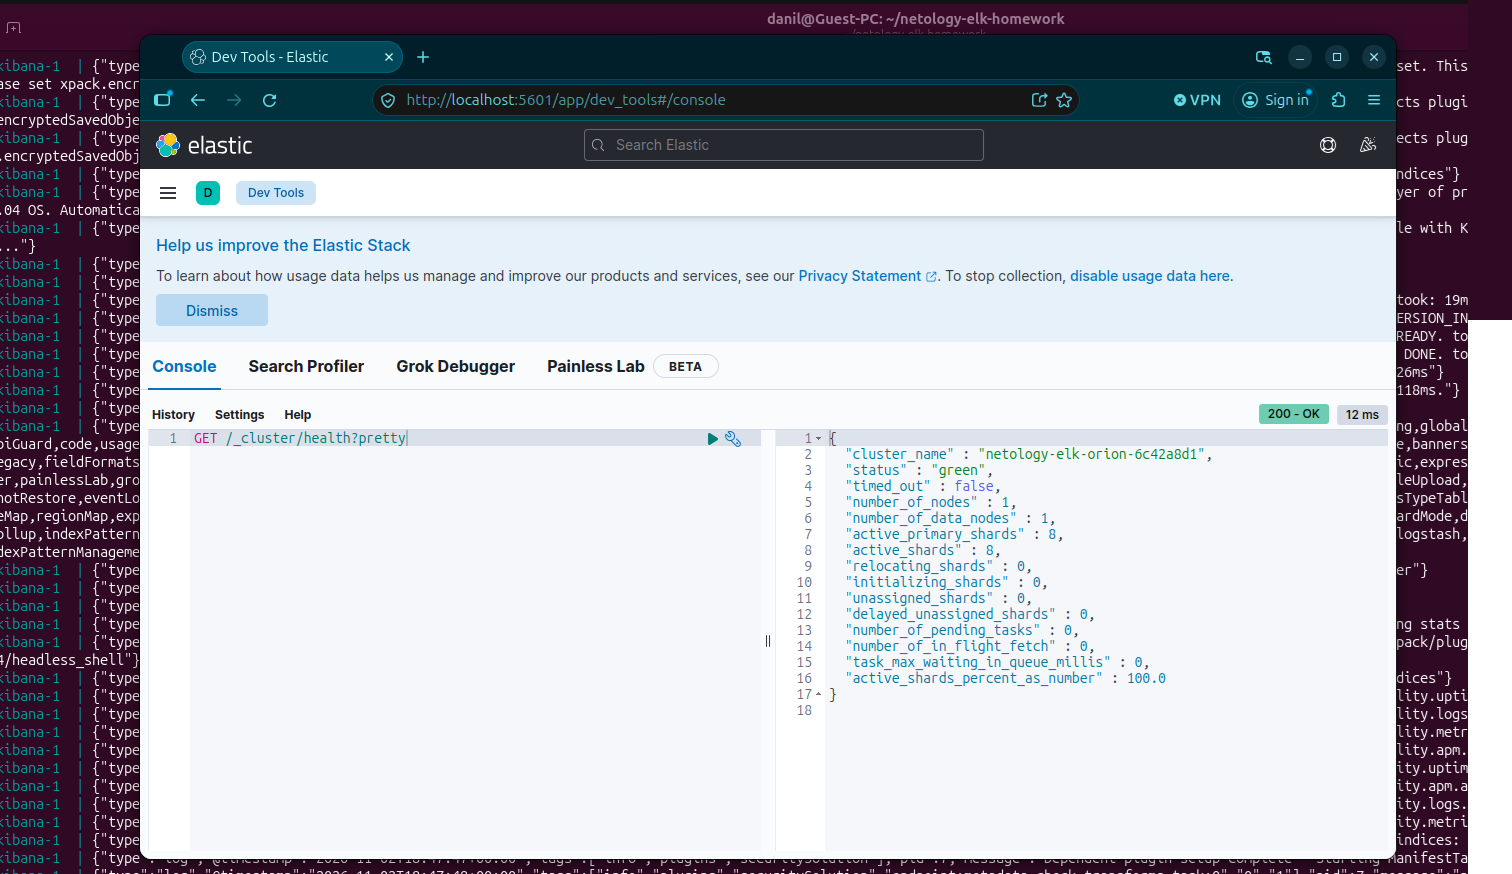
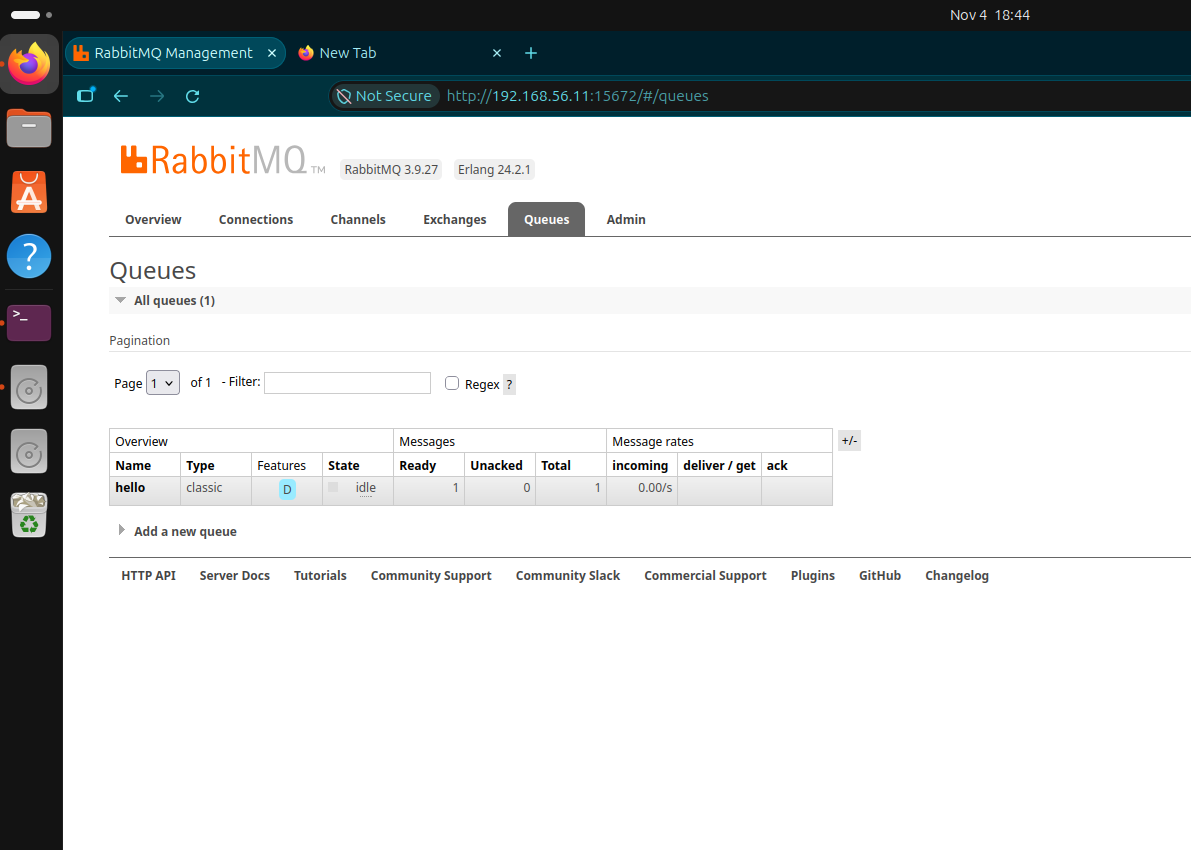
update

diff --git a/README.md b/README.md
@@ -1,37 +1,179 @@
-# Домашнее задание к занятию "`ELK`" - `<Березкин Даниил>`
+# Домашнее задание к занятию "`Очереди RabbitMQ`" - `<Березкин Даниил>`
 
 ### Задание 1
 
-`Скриншот команды 'curl -X GET 'localhost:9200/_cluster/health?pretty', сделанной на сервере с установленным Elasticsearch`
+`Главная страница RabbitMQ Management`
 
-![Скриншот команды 'curl -X GET 'localhost:9200/_cluster/health?pretty', сделанной на сервере с установленным Elasticsearch «Задание 1»](img/zd1_1.png)`
+![Главная страница RabbitMQ Management «Задание 1»](img/zd1_1.png)`
 
 
 ---
 
 ### Задание 2
 
-`Скриншот интерфейса Kibana на странице http://<ip вашего сервера>:5601/app/dev_tools#/console, где будет выполнен запрос GET /_cluster/health?pretty.`
+`Очередь hello в веб-интерфейсе, желательно с одним сообщением в Ready`
 
-![Скриншот интерфейса Kibana на странице http://<ip вашего сервера>:5601/app/dev_tools#/console, где будет выполнен запрос GET /_cluster/health?pretty. «Задание 2»](img/zd2_1.png)`
+![Очередь hello в веб-интерфейсе, желательно с одним сообщением в Ready «Задание 2»](img/zd2_1.png)`
 
+`Вывод consumer.py с полученным сообщением.`
+
+![Вывод consumer.py с полученным сообщением. «Задание 2»](img/zd2_2.png)`
 
 ---
 
 ### Задание 3
 
-`Скриншот интерфейса Kibana, на котором видны логи Nginx`
+`Две ноды в веб-интерфейсе`
 
-![Скриншот интерфейса Kibana, на котором видны логи Nginx. «Задание 3»](img/zd3_1.png)`
+![Две ноды в веб-интерфейсе «Задание 3»](img/zd3_1.png)`
+
+`Вывод cluster_status rmq01`
+
+![Вывод cluster_status rmq01 «Задание 3»](img/zd3_2.png)`
+
+```
+
+vagrant@rmq01:~$ sudo rabbitmqctl cluster_status
+Cluster status of node rabbit@rmq01 ...
+Basics
+
+Cluster name: rabbit@rmq01
+
+Disk Nodes
+
+rabbit@rmq01
+rabbit@rmq02
+
+Running Nodes
+
+rabbit@rmq01
+rabbit@rmq02
+
+Versions
+
+rabbit@rmq01: RabbitMQ 3.9.27 on Erlang 24.2.1
+rabbit@rmq02: RabbitMQ 3.9.27 on Erlang 24.2.1
+
+Maintenance status
+
+Node: rabbit@rmq01, status: not under maintenance
+Node: rabbit@rmq02, status: not under maintenance
+
+Alarms
+
+(none)
+
+Network Partitions
+
+(none)
+
+Listeners
+
+Node: rabbit@rmq01, interface: [::], port: 25672, protocol: clustering, purpose: inter-node and CLI tool communication
+Node: rabbit@rmq01, interface: [::], port: 5672, protocol: amqp, purpose: AMQP 0-9-1 and AMQP 1.0
+Node: rabbit@rmq01, interface: [::], port: 15672, protocol: http, purpose: HTTP API
+Node: rabbit@rmq02, interface: [::], port: 15672, protocol: http, purpose: HTTP API
+Node: rabbit@rmq02, interface: [::], port: 25672, protocol: clustering, purpose: inter-node and CLI tool communication
+Node: rabbit@rmq02, interface: [::], port: 5672, protocol: amqp, purpose: AMQP 0-9-1 and AMQP 1.0
+
+Feature flags
+
+Flag: drop_unroutable_metric, state: enabled
+Flag: empty_basic_get_metric, state: enabled
+Flag: implicit_default_bindings, state: enabled
+Flag: maintenance_mode_status, state: enabled
+Flag: quorum_queue, state: enabled
+Flag: stream_queue, state: enabled
+Flag: user_limits, state: enabled
+Flag: virtual_host_metadata, state: enabled
+
+```
 
 
----
 
-### Задание 4
+`Вывод cluster_status rmq02`
 
-`Скриншот интерфейса Kibana, на котором видны логи Nginx, которые были отправлены через Filebeat`
+![Вывод cluster_status rmq02 «Задание 3»](img/zd3_3.png)`
 
-![Скриншот интерфейса Kibana, на котором видны логи Nginx, которые были отправлены через Filebeat. «Задание 4»](img/zd4_1.png)`
+
+```
+
+vagrant@rmq02:~$ sudo rabbitmqctl cluster_status
+Cluster status of node rabbit@rmq02 ...
+Basics
+
+Cluster name: rabbit@rmq02
+
+Disk Nodes
+
+rabbit@rmq01
+rabbit@rmq02
+
+Running Nodes
+
+rabbit@rmq01
+rabbit@rmq02
+
+Versions
+
+rabbit@rmq01: RabbitMQ 3.9.27 on Erlang 24.2.1
+rabbit@rmq02: RabbitMQ 3.9.27 on Erlang 24.2.1
+
+Maintenance status
+
+Node: rabbit@rmq01, status: not under maintenance
+Node: rabbit@rmq02, status: not under maintenance
+
+Alarms
+
+(none)
+
+Network Partitions
+
+(none)
+
+Listeners
+
+Node: rabbit@rmq01, interface: [::], port: 25672, protocol: clustering, purpose: inter-node and CLI tool communication
+Node: rabbit@rmq01, interface: [::], port: 5672, protocol: amqp, purpose: AMQP 0-9-1 and AMQP 1.0
+Node: rabbit@rmq01, interface: [::], port: 15672, protocol: http, purpose: HTTP API
+Node: rabbit@rmq02, interface: [::], port: 15672, protocol: http, purpose: HTTP API
+Node: rabbit@rmq02, interface: [::], port: 25672, protocol: clustering, purpose: inter-node and CLI tool communication
+Node: rabbit@rmq02, interface: [::], port: 5672, protocol: amqp, purpose: AMQP 0-9-1 and AMQP 1.0
+
+Feature flags
+
+Flag: drop_unroutable_metric, state: enabled
+Flag: empty_basic_get_metric, state: enabled
+Flag: implicit_default_bindings, state: enabled
+Flag: maintenance_mode_status, state: enabled
+Flag: quorum_queue, state: enabled
+Flag: stream_queue, state: enabled
+Flag: user_limits, state: enabled
+Flag: virtual_host_metadata, state: enabled
+
+```
+
+`Политика ha-all с её параметрами`
+
+![Политика ha-all с её параметрами «Задание 3»](img/zd3_4.png)`
+
+
+`rabbitmqadmin get на ноде rmq01`
+
+![rabbitmqadmin get на ноде rmq01 «Задание 3»](img/zd3_5.png)`
+
+`rabbitmqadmin get на ноде rmq02`
+
+![rabbitmqadmin get на ноде rmq02 «Задание 3»](img/zd3_6.png)`
+
+
+`Успешное получение сообщения через rmq02 при остановленной rmq01`
+
+![Успешное получение сообщения через rmq02 при остановленной rmq01 «Задание 3»](img/zd3_7.png)`
+
+
+
 
 
 ---
